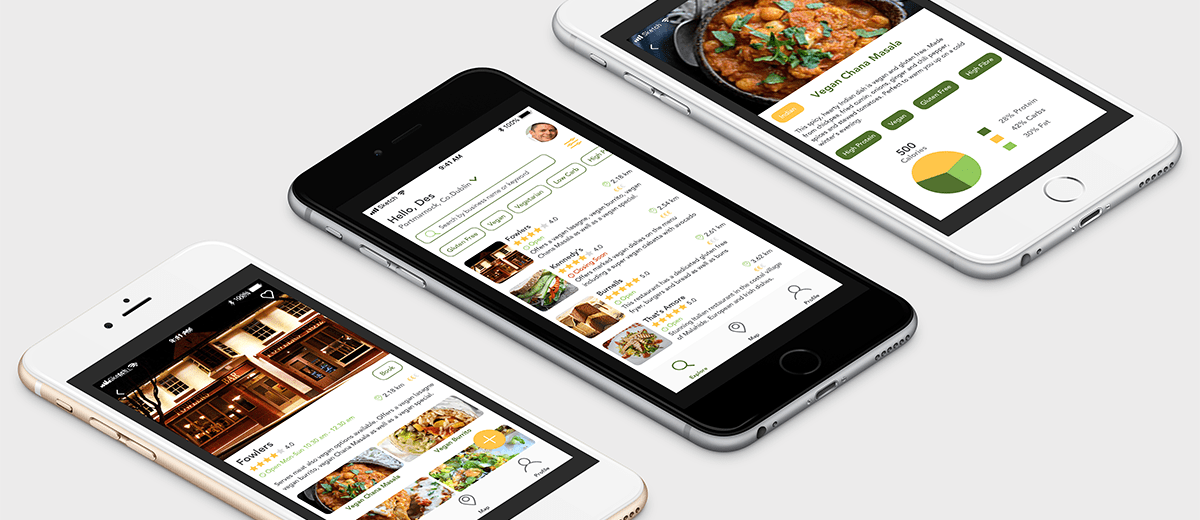
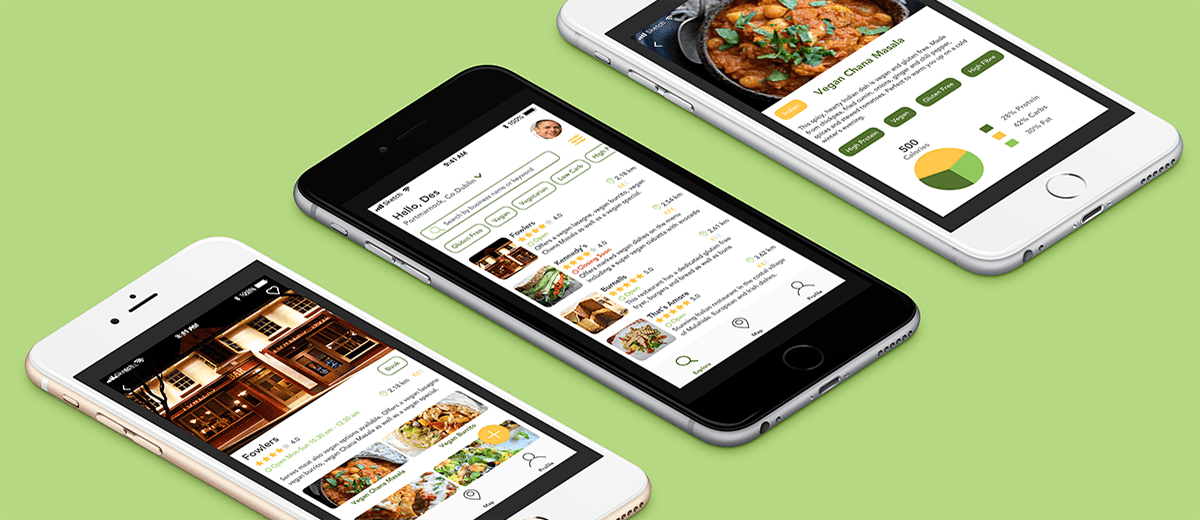
changing colour of bg images

diff --git a/index.1.html b/index.1.html
@@ -64,7 +64,7 @@
       <ul class="nav navbar-right navbar-nav">
          
         <li><a href="#portfolio">PORTFOLIO</a></li>
-        <li><a href="#aboutme">ABOUT</a></li>
+        <li><a href="portfolio/about.html">ABOUT</a></li>
         <li><a href="portfolio/contactForm.html">CONTACT</a></li>
       </ul>
      
@@ -81,11 +81,17 @@
 
  <div class="container"> 
   <div class="row">
-    <div class="col-xs-12 col-sm-6 col-md-6 col-lg-6">   
+    <div class="col-xs-12 col-sm-12 col-md-12 col-lg-12">   
     <div class="intro-text">
-    <p class=" name blue-brand">Des Flaherty</p>
-    <p class=" description ">UX/UI Designer</p>
-     <p class=" script">I create beautiful products, that people love to use.</p>
+    <p class=" name blue-brand">Hi I'm Des</p>
+    <p class=" description ">A Dublin based UX/UI Designer</p>
+    <br>
+     <p class=" script ">
+   My interests lie in technology, products and people
+      and especially how design can be used to overcome human centered problems.</p>
+      
+       
+   
   </div>
   </div>
   </div> <!-- close row -->
@@ -97,50 +103,50 @@
   <div class="row">
       
       
-       <div class="col-lg-12 righttrack_lg visible-lg">
+       <div class="col-lg-12 righttrack_lg visible-lg image-padding table-top-padding ">
       <div class="righttrack">
           <a href="portfolio/righttrack.html">
   <img src="assets/images/Portfolio_Right_Track.png" style="background-color:#FFF;" class="img-responsive" alt="Right Track SCreens">
   <div class="righttrack-text-content">
     <h1>'Right Track'</h1>
-    <h2><i>A job searching tool</i></h2>
+    <h2><i>A job searching and application tracker</i></h2>
      </div>
      </a>
      </div>
      </div>
      
-      <div class=" col-md-12 righttrack_md visible-md">
+      <div class=" col-md-12 righttrack_md visible-md image-padding table-top-padding">
       <div class="righttrack">
           <a href="portfolio/righttrack.html">
   <img src="assets/images/Portfolio_Right_Track.png" style="background-color:#FFF;" class="img-responsive" alt="Right Track SCreens">
   <div class="righttrack-text-content">
     <h1>'Right Track'</h1>
-    <h2><i>A job searching tool</i></h2>
+    <h2><i>A job searching and application tracker</i></h2>
      </div>
      </a>
      </div>
      </div>
      
-     <div class=" col-sm-12 righttrack_sm visible-sm">
+     <div class=" col-sm-12 righttrack_sm visible-sm image-padding table-top-padding">
       <div class="righttrack">
           <a href="portfolio/righttrack.html">
   <img src="assets/images/Portfolio_Right_Track.png" style="background-color:#FFF;" class="img-responsive" alt="Right Track SCreens">
   <div class="righttrack-text-content">
     <h1>'Right Track'</h1>
-    <h2><i>A job searching tool</i></h2>
+    <h2><i>A job searching and application tracker</i></h2>
      </div>
      </a>
      </div>
      </div>
      
      
-      <div class="col-xs-12 righttrack_xs visible-xs ">
+      <div class="col-xs-12  visible-xs  image-padding table-top-padding">
       <div class="righttrack">
           <a href="portfolio/righttrack.html">
   <img src="assets/images/Portfolio_Right_Track.png" style="background-color:#FFF;" class="img-responsive" alt="Right Track SCreens">
   <div class="righttrack-text-content">
     <h1>'Right Track'</h1>
-    <h2><i>A job searching tool</i></h2>
+    <h2><i>A job searching and application tracker</i></h2>
      </div>
      </a>
      </div>
@@ -157,42 +163,35 @@
   </section>
 
 
-
-
-
-
-
-
-
-
-
 <section id="portfolio">
   <div class="container"> 
-  <div class="row">
-    <p class="text-center portfolio-header blue-brand" id="portfolio"></p>
-  </div> <!-- close row -->
+  
     
      
    
    
     <div class="row">
-   <div class="col-xs-12 col-sm-6 col-md-6  no-gutter">
+   <div class="col-xs-12 col-sm-12 col-md-12 image-padding table-top-padding ">
      <div class="portfolio">
      <a href="portfolio/savewell.html">
-     <img src="assets/images/Index_slanted_small.png" style="background-color:#FFF;" class="img-responsive" alt="Splash">
+     <img src="assets/images/save_well_dshot_small-min.png" style="background-color:#FFF;" class="img-responsive" alt="Splash">
      
    <div class="work-text-content">
     <h1>'Save Well'</h1>
-    <h2><i>A money saving tool</i></h2>
+    <h2><i>An easy to use personalised money saving tool</i></h2>
      </div>
      </a>
      </div>
      </div>
-   
-   <div class="col-xs-12 col-sm-6 col-md-6  no-gutter">
+     
+        </div> <!-- close row -->
+     
+     
+    <div class="row">
+   <div class="col-xs-12 col-sm-12 col-md-12   image-padding table-top-padding">
      <div class="portfolio">
      <a href="portfolio/healthymove.html">
-     <img src="assets/images/meal_mockup.png" style="background-color:#FFF;" class="img-responsive" alt="Meal_screen">
+     <img src="assets/images/healthymove_cropped-min.png" style="background-color:#FFF;" class="img-responsive" alt="Meal_screen">
      
    <div class="work-text-content">
     <h1>'Healthy Move'</h1>
@@ -202,39 +201,27 @@
      </div>
      </div>
      
-      </div> <!-- close row -->
-    
-    
-    <div class="row">
-     
-     
-      <div class="col-xs-12 col-sm-6 col-md-6  no-gutter">
-     <div class="portfolio">
-     <a href="portfolio/ux.html">
-     <img src="assets/images/MacBook_Pro_UX_resized.png" style="background-color:#FFF;" class="img-responsive" alt="UX_prototype">
-     
-   <div class="work-text-content">
-    <h1>'FlyUX'</h1>
-    <h2><i>UX Design</i></h2>
-     </div>
-     </a>
-     </div>
-     </div>
- 
-      <div class="col-xs-12 col-sm-6 col-md-6 no-gutter">
+       </div> <!-- close row -->
+       
+       
+     <div class="row">
+      <div class="col-xs-12 col-sm-12 col-md-12 image-padding table-top-padding">
       <div class="portfolio">
           <a target="_blank" href="https://www.dribbble.com/desflaherty">
     <img src="assets/images/dribbble_shots_lg.png" style="background-color:#FFF;" class="img-responsive" alt="Splash">   
     <div class="work-text-content">
-    <h1>'Dribbble Shots'</h1>
-    <h2><i>UI Design</i></h2>
+    <h1>'Dribbble Portfolio'</h1>
+    <h2><i>UI Design Concepts</i></h2>
      </div>
      </a>
      </div>
    </div>
+        
      
-     
-       </div> <!-- close row -->
+      </div> <!-- close row -->
+    
+    
+    
        
     </div> <!-- close container -->
     
@@ -251,60 +238,11 @@
 
 
 
-<section id="aboutme">
-  <div class="container"> 
- 
- <div class="row">
-  <div class="col-xs-12">
-  <p class="text-center about-header table-padding blue-brand">About Des</p>
-  </div>
- </div>
-  
-  
-  
- 
-  
- 
- 
-    <div class="row">
-     <div class="col-xs-12 col-sm-12 col-md-12 col-lg-6">
-  <img src="assets/images/hongkong_profile.png" style="background-color:#FFF;" class="img-responsive " alt="profile_pic">
-  </div>
- 
-  
-  
-  
-    <div class="col-xs-12 col-sm-12 col-md-12 col-lg-6 ">
-     
-    <p class="about-text"> I'm an experienced analytics professional and have spent my career to date using data to 
-    understand customer behaviours and needs, using these insights to help solve business challenges.
-    </P>
-    
-
-    <p class="about-text">A life long learner I have recently invested my time understanding the user experience process and 
-    obtaining new software skills and abilities in UX and UI.</P>
-    
-        <p class="about-text">One of my key personal qualities is empathy. I now enjoy working to a user centered design approach to design visually
-        attractive products that solve problems and improve people's lives.</P>
-    
-
-    <p class="about-text">I'm always seeking out adventure and new activities. I enjoy travelling, nature, 
-   scuba diving, snowboarding and keeping fit.</p>
-   
-  
-   
-                 
-                    
-  </div>
-
- 
-  </div> <!-- close container -->
-</section>
 
 
 
-  
-</div>
+
+
 
 <section>
 		 <footer class="container footer">
@@ -329,6 +267,14 @@
                <a style="text-decoration:none" target="_blank" class="grey-link" href="mailto:des@desflaherty.com">
              <i class="fa fa-envelope"></i>&nbsp; des@desflaherty.com</h4></a>
             </div>
+            
+             <div id=”hiddenseal” style=”display:none”>
+              <script async type="text/javascript"
+              src="https://seal.godaddy.com/getSeal?sealID=FvIN1onBvJKbEg4HB4cptsuMP2qJ6yADwjgefr7h6WQrackm5gz9fKpX9ezJ">
+               
+              </script></div>
+            
+            
         </footer>
 
  </section>

diff --git a/index.html b/index.html
@@ -204,21 +204,6 @@
        </div> <!-- close row -->
        
        
-     <div class="row">
-      <div class="col-xs-12 col-sm-12 col-md-12 image-padding table-top-padding">
-      <div class="portfolio">
-          <a target="_blank" href="https://www.dribbble.com/desflaherty">
-    <img src="assets/images/dribbble_shots_lg.png" style="background-color:#FFF;" class="img-responsive" alt="Splash">   
-    <div class="work-text-content">
-    <h1>'Dribbble Portfolio'</h1>
-    <h2><i>UI Design Concepts</i></h2>
-     </div>
-     </a>
-     </div>
-   </div>
-        
-     
-      </div> <!-- close row -->
     
     
     
